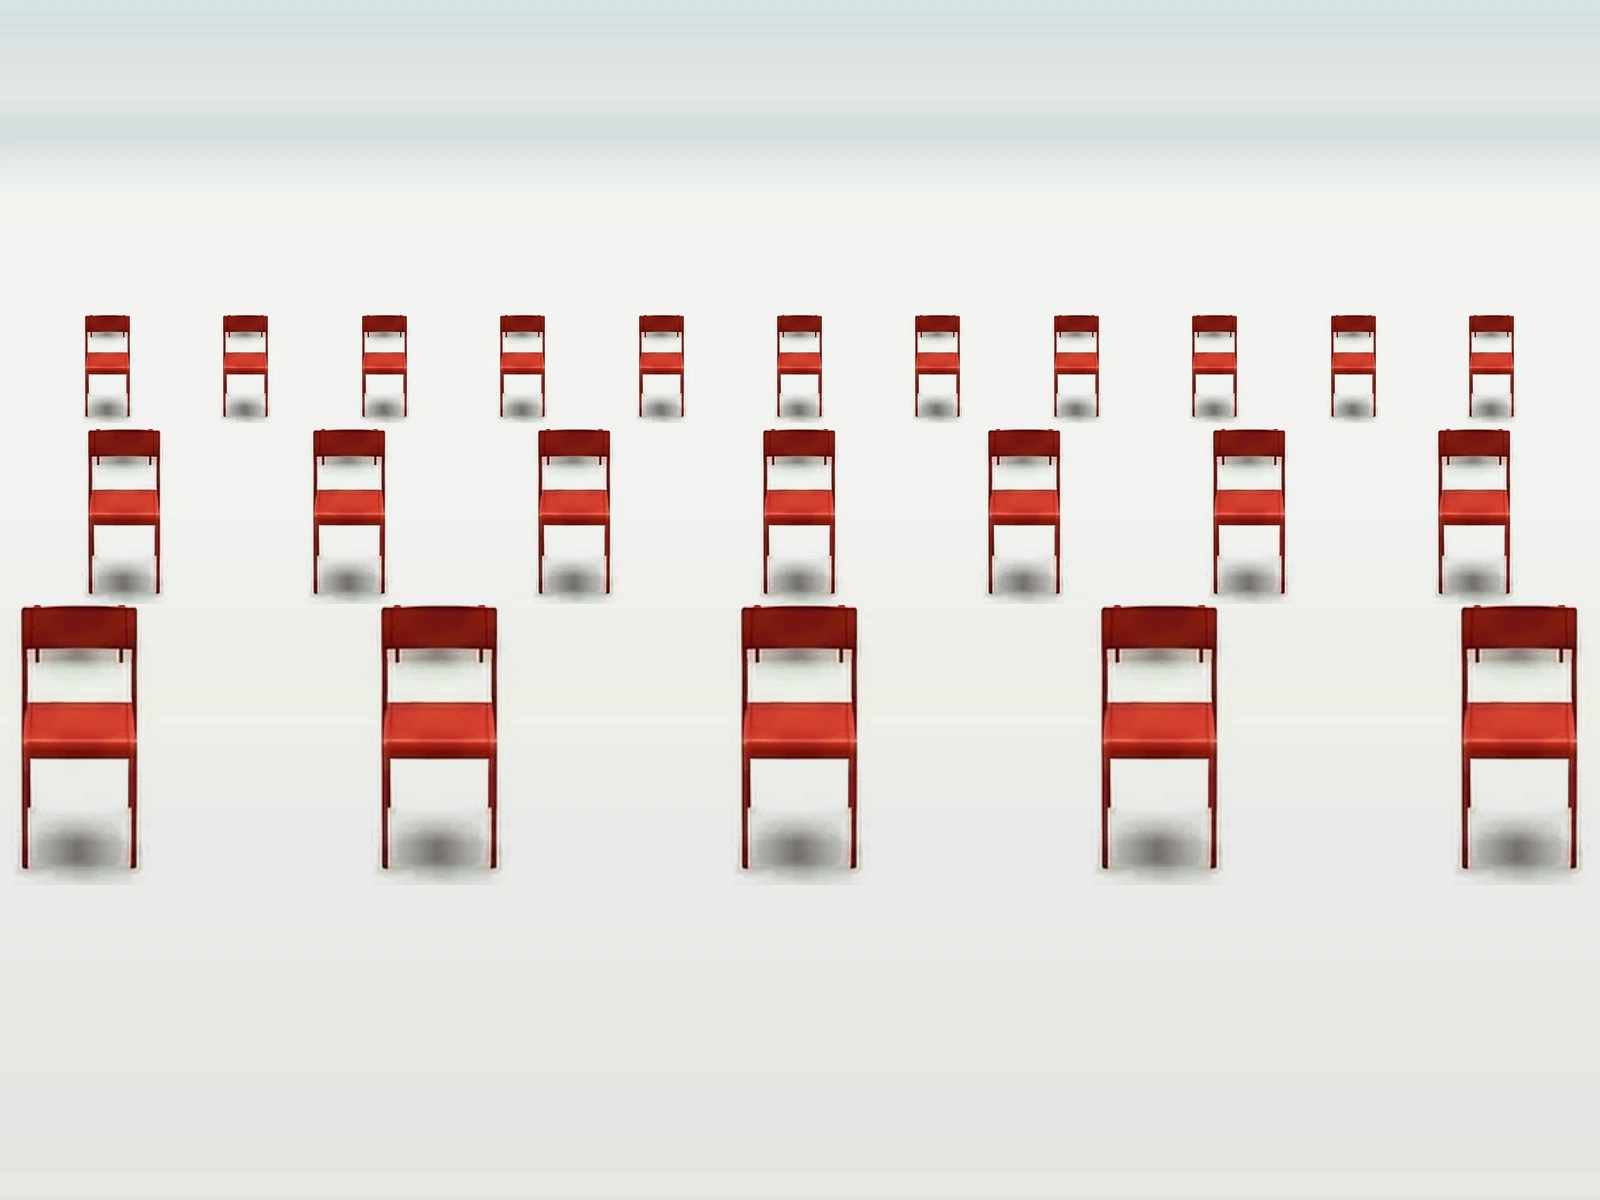
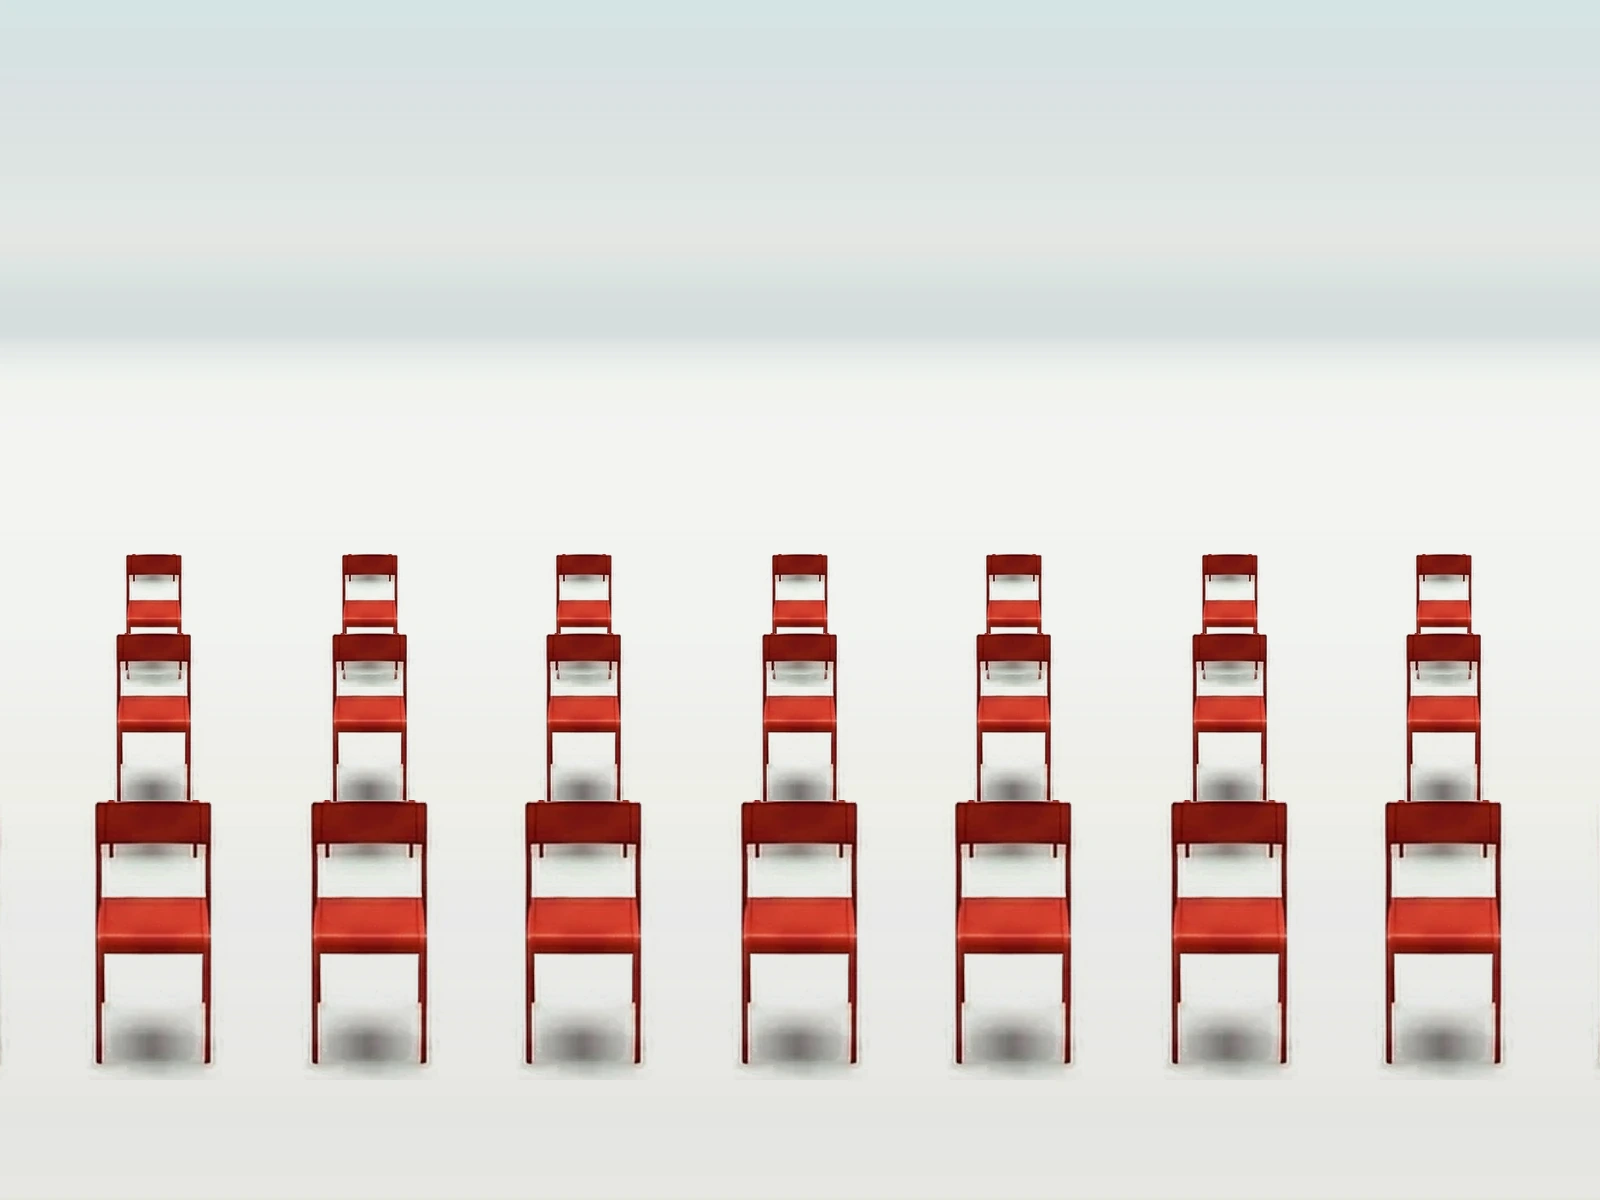
Tighten and align the wide picture's grid
The three rows now stand where the first three rows of the long picture stand, so the gaps between
them close and the block sits forward in the frame, and their column spacing is held at its near-row
value so every chair of a column stands directly above the one in front of it.

Claude-Session: https://claude.ai/code/session_01Mg2m7UxBYV5Z6EpVkT3GoV

Changed region(s): [[0.0, 0.2158, 1.0, 0.8942]]

diff --git a/tools/build_chair_layouts.py b/tools/build_chair_layouts.py
@@ -6,18 +6,18 @@ the same ground-plane camera, so they differ only in the shape of the grid stand
 one is three columns running far back, the wide one three rows running far out to each side.
 
 Changelog:
+- 0.2.0 the wide picture's three rows are the first three of the long one, with its columns aligned.
 - 0.1.0 one shared camera for both pictures, each a grid of rows by columns in a 4:3 frame.
 - 0.0.0 initial release.
 """
 
 __author__ = 'yRocket'
-__version__ = "0.1.0.2026.9.7"  # Semantic Versioning: Major.Minor.Patch.Date(YYYY.M.D)
+__version__ = "0.2.0.2026.9.7"  # Semantic Versioning: Major.Minor.Patch.Date(YYYY.M.D)
 
 __all__ = ['read_backdrop_profile', 'cut_chair', 'paint_backdrop', 'place_grid', 'build_long', 'build_wide']
 
 import argparse
 import pathlib
-from typing import Sequence
 
 import numpy as np
 from PIL import Image
@@ -35,12 +35,13 @@ CANVAS_SIZE: tuple = (1600, 1200)             # 4:3, shared by both pictures
 CANVAS_HORIZON: int = 330
 NEAR_BASE: int = 1080                         # image row the nearest row of chairs stands on
 NEAR_HEIGHT: int = 280                        # chair height at the nearest row
-NEAR_PITCH: int = 360                         # column spacing at the nearest row
+NEAR_PITCH: int = 360                         # column spacing at the nearest row of the long picture
+WIDE_PITCH: int = 215                         # closer, so more columns of the wide picture reach the frame
+ROW_PITCH: float = 0.55                       # ground distance between neighbouring rows, in camera distances
 LONG_COLUMNS: int = 3
-LONG_DEPTHS: tuple = tuple(row * 0.55 for row in range(11))    # ground distance of each row, in camera distances
+LONG_ROWS: int = 11
 WIDE_COLUMNS: int = 13
-WIDE_DEPTHS: tuple = (0.0, 0.6, 1.6)          # widening, so no row hides behind the backs of the one in front
-WIDE_TILT: int = -195                         # rows the wide scene is raised by, the camera aimed lower
+WIDE_ROWS: int = 3                            # the first three rows of the long picture, in the same places
 
 WEBP_QUALITY: int = 92
 
@@ -102,29 +103,34 @@ def paint_backdrop(profile: np.ndarray = None, size: tuple = CANVAS_SIZE,
 
 
 def place_grid(chair: Image.Image = None, profile: np.ndarray = None,
-               depths: Sequence = None, columns: int = None, tilt: int = 0) -> Image.Image:
+               rows: int = None, columns: int = None, near_pitch: int = NEAR_PITCH,
+               columns_aligned: bool = False) -> Image.Image:
     """A rows-by-columns grid of chairs on the ground plane, seen by the shared camera.
 
-    depths gives the ground distance of each row beyond the nearest one, in units of the distance to
-    that nearest row, so a row at depth d is drawn at scale 1 / (1 + d) — what linear perspective does
-    to a ground plane. The column spacing shrinks with the same scale, so the columns converge. Rows
-    are drawn far to near, letting a near chair occlude the one behind it, and tilt moves the whole
-    scene, horizon included, up or down the frame: it aims the same camera, it does not move it.
+    Row 0 is nearest and row k stands ROW_PITCH further back than row k-1, so it is drawn at scale
+    1 / (1 + k * ROW_PITCH) — what linear perspective does to a ground plane. Rows are drawn far to
+    near, letting a near chair occlude the one behind it.
+
+    columns_aligned holds the column spacing at its near-row value instead of shrinking it with the
+    row, which stands every chair of a column directly above the one in front of it. A converging
+    column reads as one line running away from the viewer, which is what the long picture wants; an
+    aligned one reads as a column of a table, which is what the wide picture wants.
     """
-    horizon = CANVAS_HORIZON + tilt
+    horizon = CANVAS_HORIZON
     canvas = paint_backdrop(profile=profile, horizon=horizon).convert('RGBA')
     span = NEAR_BASE - CANVAS_HORIZON
     centre_offsets = [index - (columns - 1) / 2 for index in range(columns)]
 
-    for depth in reversed(depths):
-        scale = 1.0 / (1.0 + depth)
+    for row in reversed(range(rows)):
+        scale = 1.0 / (1.0 + row * ROW_PITCH)
         base_y = horizon + span * scale
         height = NEAR_HEIGHT * scale
         size = (max(1, round(chair.width * height / chair.height)), max(1, round(height)))
         scaled = chair.resize(size, resample=Image.LANCZOS)
 
+        pitch = near_pitch if columns_aligned else near_pitch * scale
         for offset in centre_offsets:
-            centre_x = CANVAS_SIZE[0] / 2 + offset * NEAR_PITCH * scale
+            centre_x = CANVAS_SIZE[0] / 2 + offset * pitch
             canvas.alpha_composite(scaled, dest=(round(centre_x - size[0] / 2), round(base_y - size[1])))
 
     return canvas.convert('RGB')
@@ -132,13 +138,13 @@ def place_grid(chair: Image.Image = None, profile: np.ndarray = None,
 
 def build_long(chair: Image.Image = None, profile: np.ndarray = None) -> Image.Image:
     """Three columns running far back — one row of a table after another."""
-    return place_grid(chair=chair, profile=profile, depths=LONG_DEPTHS, columns=LONG_COLUMNS)
+    return place_grid(chair=chair, profile=profile, rows=LONG_ROWS, columns=LONG_COLUMNS)
 
 
 def build_wide(chair: Image.Image = None, profile: np.ndarray = None) -> Image.Image:
     """Three rows running past both edges of the frame — one column of a table after another."""
-    return place_grid(chair=chair, profile=profile, depths=WIDE_DEPTHS, columns=WIDE_COLUMNS,
-                      tilt=WIDE_TILT)
+    return place_grid(chair=chair, profile=profile, rows=WIDE_ROWS, columns=WIDE_COLUMNS,
+                      near_pitch=WIDE_PITCH, columns_aligned=True)
 
 
 def parse_args() -> argparse.Namespace:
